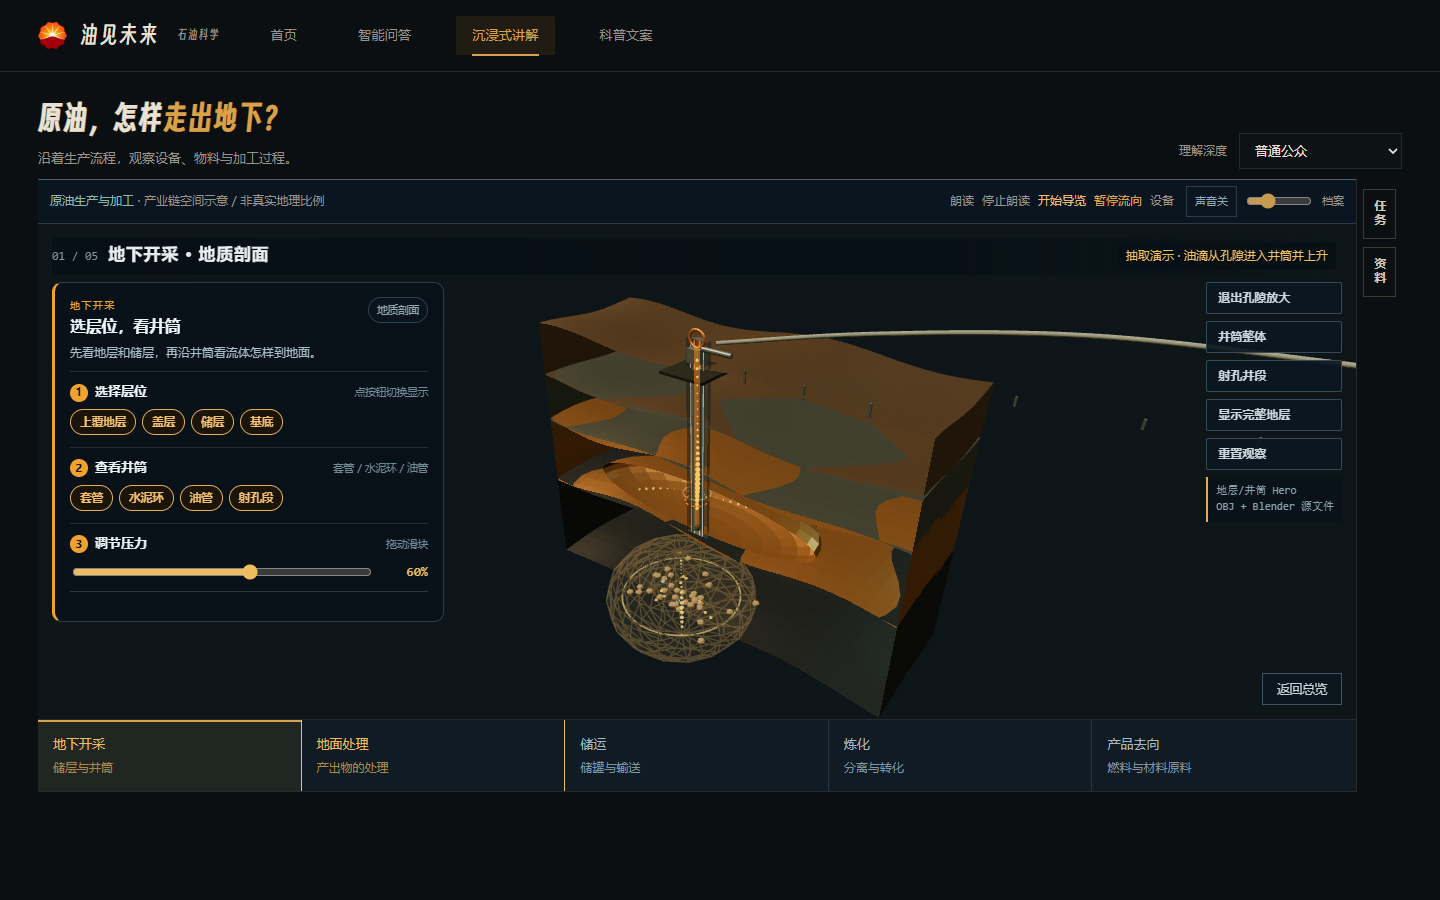
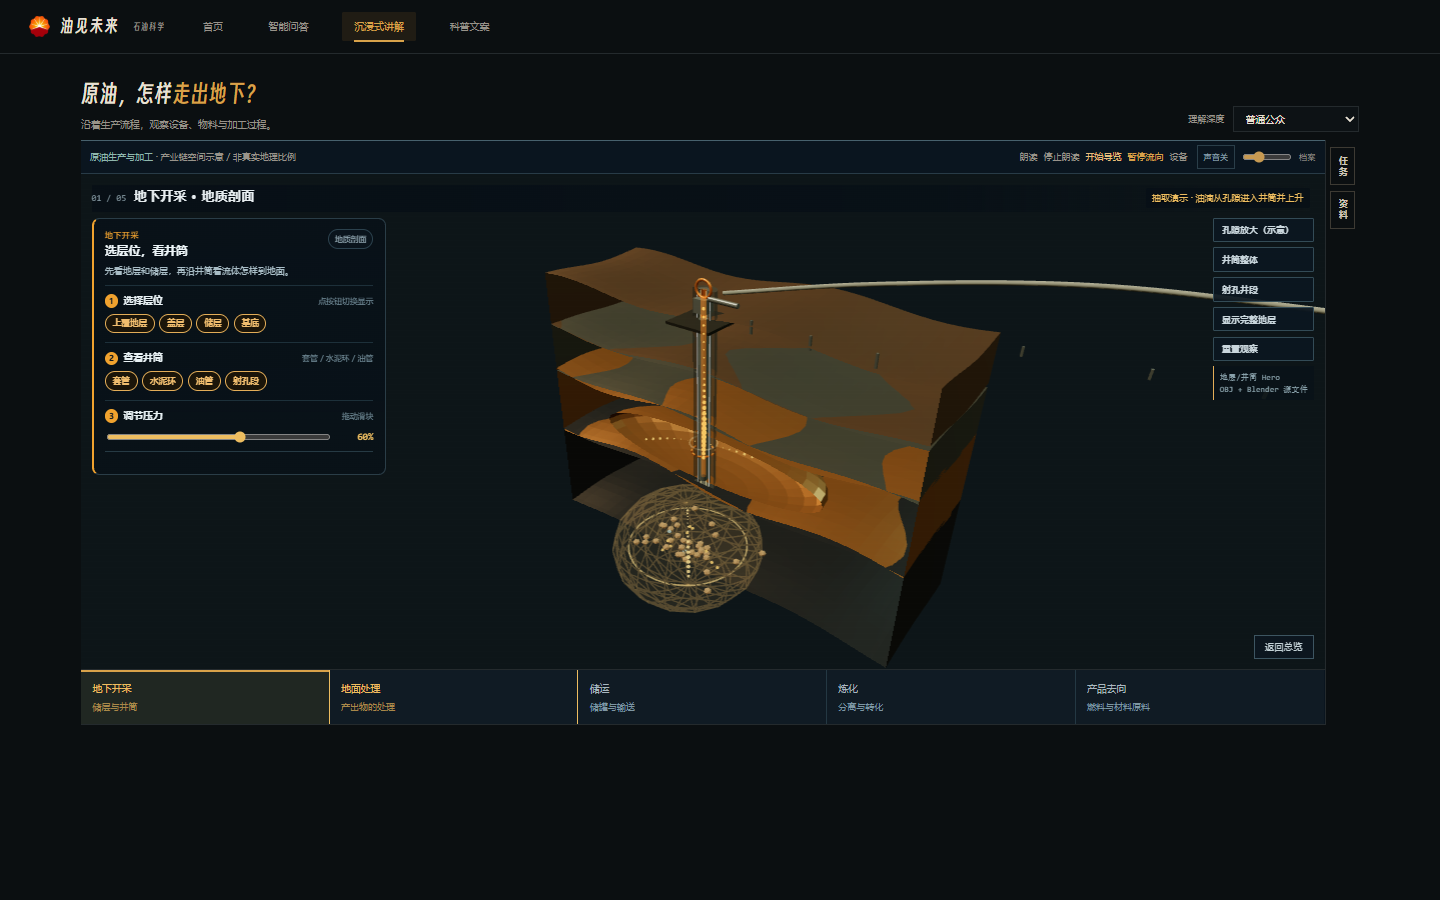
fix: restore pore overlay and toggle wellbore selection

diff --git a/web/levels/l1.js b/web/levels/l1.js
@@ -47,7 +47,7 @@
   let running = false, lastT = 0, flyHandle = null;
   let pressure = 0, paused = false, completed = false, clipped = true;
   const clipPlane = new THREE.Plane(new THREE.Vector3(0, 0, -1), 0);
-  let selectedLayer = null, selectedPart = null, poreMode = false, highlightedLayer = null;
+  let selectedLayer = null, selectedPart = null, poreMode = false, poreZoom = false, highlightedLayer = null;
   let viewMode = 'block';
   let layerVisibility = { overburden: true, caprock: true, reservoir: true, basement: true };
   let originalVisibility = null;
@@ -191,9 +191,10 @@
       applyClip();
       e.currentTarget.textContent = clipped ? '显示完整地层' : '剖切地层';
     };
-    ui.querySelector('#l1-pore').onclick = function () { poreMode ? exitPore() : enterPore(); };
+    ui.querySelector('#l1-pore').onclick = function () { poreZoom ? exitPore() : enterPore(); };
     ui.querySelector('#l1-well').onclick = function () { focusWellbore('whole'); };
     ui.querySelector('#l1-perf').onclick = function () { focusWellbore('perforation'); };
+
     ui.querySelector('#l1-play').onclick = function (e) {
       paused = !paused;
       e.currentTarget.setAttribute('aria-pressed', String(paused));
@@ -894,7 +895,9 @@
 
   function focusWellbore(mode) {
     if (!assetLoaded) return;
-    if (poreMode) exitPore();
+    const target = mode === 'perforation' ? 'wellbore-local' : 'wellbore';
+    if (viewMode === target) { resetView(); hint.textContent = '总览剖面 · 已取消井筒选择'; return; }
+    if (poreMode) exitPore(true);
     if (!clipped) {
       clipped = true;
       applyClip();
@@ -925,14 +928,16 @@
     poreGroup.scale.set(1.05, 0.74, 1.05);
     applyExtractionProgress();
     const btn = ui.querySelector('#l1-pore');
-    if (btn) btn.textContent = '退出孔隙放大';
+    if (btn) btn.textContent = '孔隙放大（示意）';
+    poreZoom = false;
     setReadout();
   }
 
   function enterPore() {
-    if (poreMode) return;
+    if (poreZoom) return;
     if (!assetLoaded || !poreGroup) return;
     poreMode = true;
+    poreZoom = true;
     clearLayerHighlight();
     poreGroup.position.y = -5.8;
     poreGroup.scale.setScalar(1);
@@ -953,9 +958,30 @@
     setReadout();
   }
 
-  function exitPore() {
+  function exitPore(full) {
     if (!poreMode) return;
+    if (!full && poreZoom) {
+      /* 从放大退回默认的半透明孔隙叠加，小气泡仍留在基底里。 */
+      poreZoom = false;
+      if (originalVisibility) {
+        layerVisibility = Object.assign({}, originalVisibility);
+        applyLayerVisibility();
+        updateLayerChips();
+        originalVisibility = null;
+      }
+      poreGroup.position.y = -9.9;
+      poreGroup.scale.set(1.05, 0.74, 1.05);
+      poreGroup.visible = true;
+      applyExtractionProgress();
+      const btn = ui.querySelector('#l1-pore');
+      if (btn) btn.textContent = '孔隙放大（示意）';
+      topView();
+      setInfo('储层 · 孔隙与流体', '已退出孔隙放大，回到地层剖面；基底里的小气泡仍表示孔隙中的流体。');
+      setReadout();
+      return;
+    }
     poreMode = false;
+    poreZoom = false;
     poreGroup.position.y = -5.8;
     poreGroup.scale.setScalar(1);
     poreGroup.visible = false;
@@ -965,7 +991,8 @@
       updateLayerChips();
       originalVisibility = null;
     }
-    ui.querySelector('#l1-pore').textContent = '孔隙放大（示意）';
+    const btn = ui.querySelector('#l1-pore');
+    if (btn) btn.textContent = '孔隙放大（示意）';
     topView();
     setInfo('储层 · 孔隙与流体', '已退出局部放大。继续点击其他岩层或井筒部件，或沿井筒上行到地面。');
     setReadout();
@@ -973,7 +1000,7 @@
 
   function traceUp() {
     if (!assetLoaded) return;
-    if (poreMode) exitPore();
+    if (poreMode) exitPore(true);
     viewMode = 'surface';
     clearLayerHighlight();
     LAYERS.forEach(function (l) {
@@ -1203,7 +1230,7 @@
   function exitLevel() {
     if (!G) return;
     if (autoPoreTimer) { clearTimeout(autoPoreTimer); autoPoreTimer = 0; }
-    if (poreMode) exitPore();
+    if (poreMode) exitPore(true);
     if (flyHandle) { cancelAnimationFrame(flyHandle); flyHandle = null; }
     ui.classList.remove('on', 'done');
     document.body.classList.remove('in-level');
@@ -1235,7 +1262,7 @@
       get assetObject() { return ASSET_OBJECT; },
       get layers() { return Object.keys(layerMeshes); },
       get parts() { return Object.keys(partMeshes); },
-      get poreMode() { return poreMode; },
+      get poreMode() { return poreMode; }, get poreZoom() { return poreZoom; },
       get pressure() { return pressure; },
       get paused() { return paused; },
       get extraction() { return { wellFlow: !!wellFlow && wellFlow.visible, inflows: convFlows.filter(function (f) { return f.visible; }).length, pulse: !!extractionRing && extractionRing.visible, started: extractionStarted, marked: extractionMarked, pressure: pressure, reservoirTotal: poreDrops.length, reservoirVisible: poreDrops.filter(function (d) { return d.visible; }).length, poreFlow: !!poreFlow && poreFlow.visible, wellCut: wellCut, wellFluid: !!wellFluid && wellFluid.visible }; },

diff --git a/web/sandbox.html b/web/sandbox.html
@@ -398,7 +398,7 @@ body.journey-tour.journey-paused .lvl-entries{display:none!important}
 .tower-link,.chapter-link{font-size:12px}
 </style>
 <script src="levels/entry.js?v=v43"></script>
-<script src="levels/l1.js?v=v76"></script>
+<script src="levels/l1.js?v=v77"></script>
 <script src="levels/l2.js?v=v58"></script>
 <script src="levels/l3.js?v=v62"></script>
 <script src="levels/l4.js?v=v65"></script>

diff --git a/docs/phase-reports/phase-08-handoff.md b/docs/phase-reports/phase-08-handoff.md
@@ -363,3 +363,5 @@ phase08-02b-action-suggestion.png
 
 - 地下开采任务栏：按“层位 → 井筒 → 压力”三步重排，右侧剖切/井筒按钮保留；地面集输管从井口连续引出，不再被台地截断。
 - 产品去向任务栏：改为左侧分步面板，产品按钮与场景标签同步，确认按钮独立成步。
+
+- 地下开采交互：孔隙放大区分叠加态与放大态，退出放大回到小气泡叠加；井筒整体/射孔井段按钮可再次点击取消。

diff --git a/CHANGELOG.md b/CHANGELOG.md
@@ -246,3 +246,5 @@
 - 地下开采、产品去向任务栏改成与地面处理/储运一致的分步面板；地下开采集输管改为从井口连续引出。
 
 - 地下开采：隐藏资产自带短管，集输管改从井口重新连续生成。
+
+- 地下开采：孔隙放大改成“叠加 → 放大 → 回到叠加”三态；井筒整体/射孔井段再次点击可取消。

diff --git a/docs/phase-reports/evidence/phase-08/README.md b/docs/phase-reports/evidence/phase-08/README.md
@@ -51,3 +51,5 @@ CDP_PORT=4344 BASE_URL=http://127.0.0.1:8796 node tools/phase08-verify.cjs
 - `l1-pipe-final3.png`：地下开采集输管从井口连续引出。
 
 - `l1-pipe-v76.png`：地下开采集输管从井口连续到右侧出口。
+
+- `l1-pore-overlay-final.png`：退出放大后回到含小气泡的孔隙叠加。
